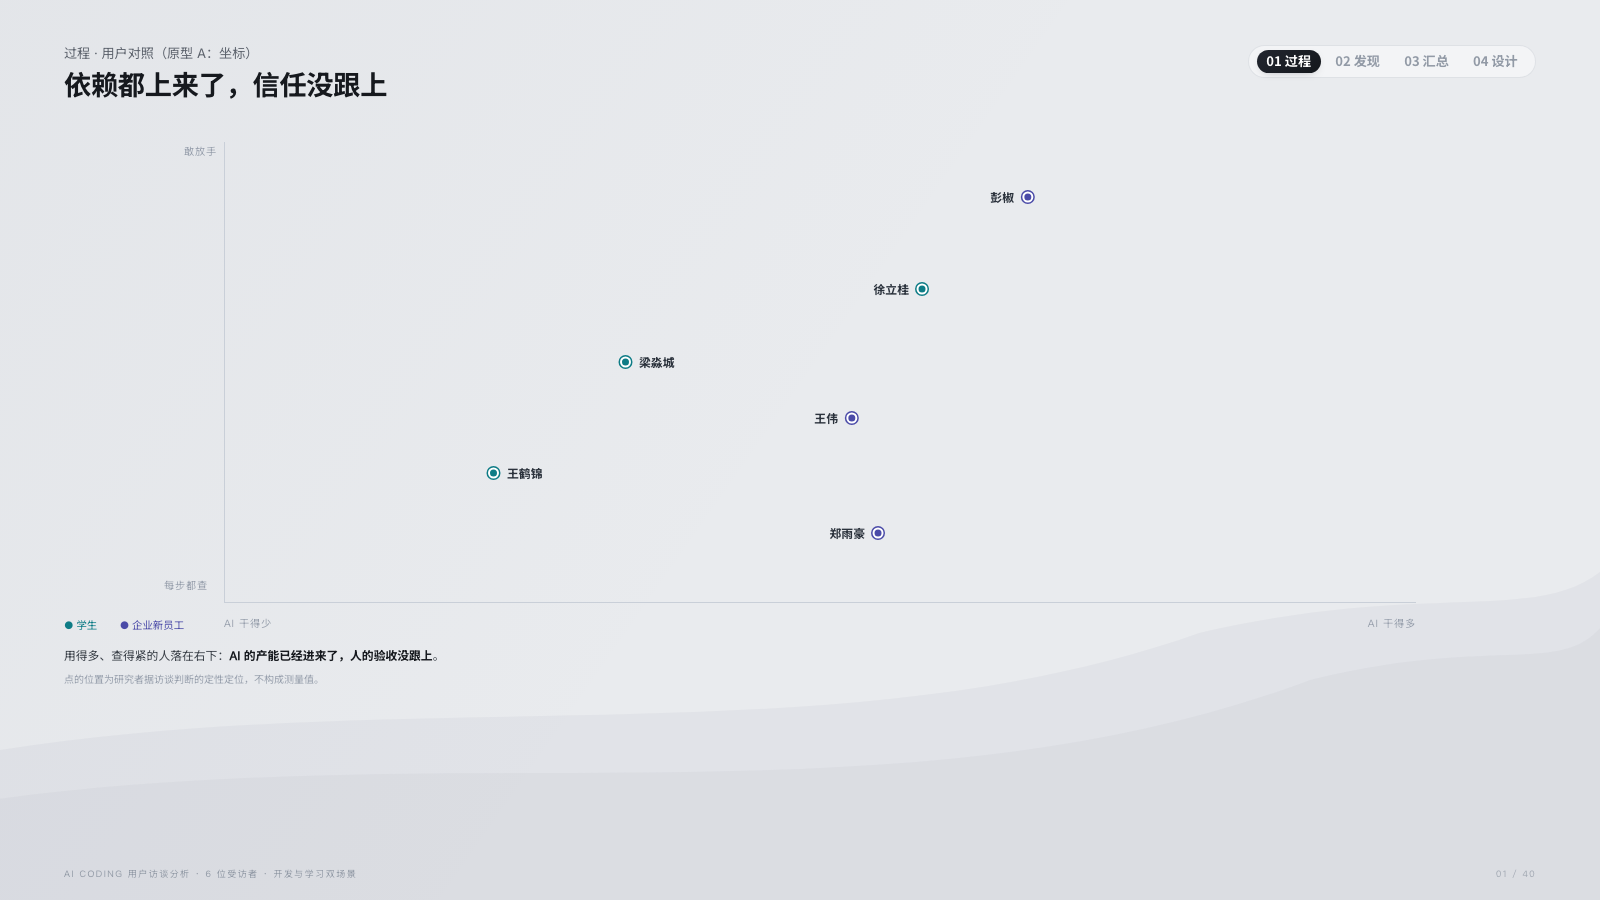
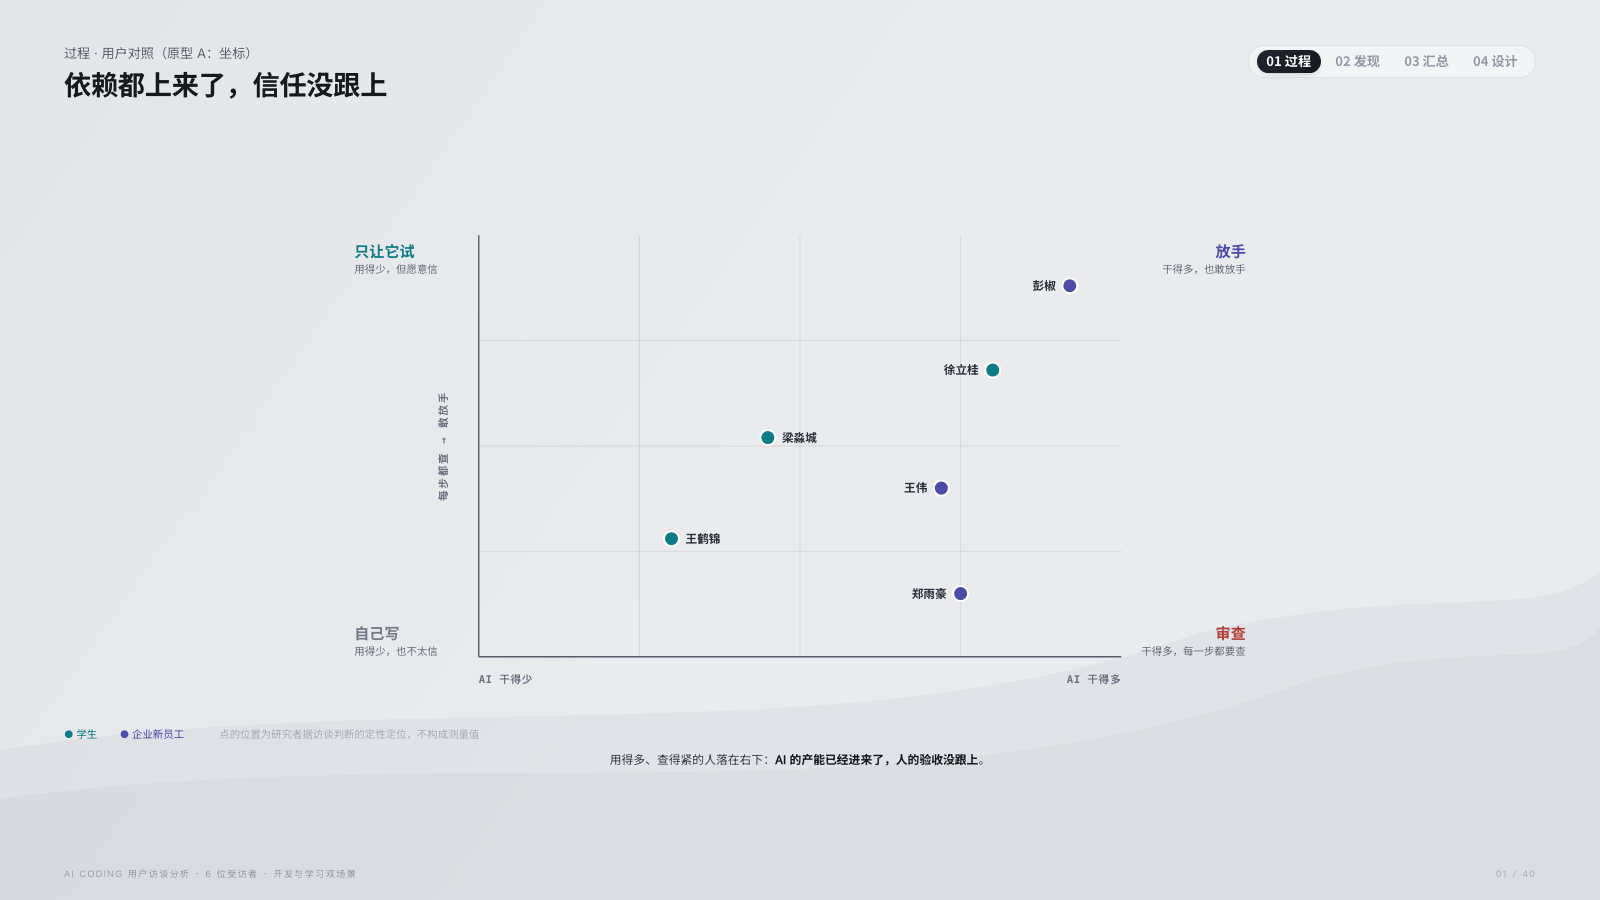
polish: 坐标页改为 Kano 式象限（参照问卷分析 #3），两版均垂直居中
- 网格线、四角象限标签（彩色标题 + 灰注）、旋转纵轴说明、点名标签
- 去掉固定高度导致的顶部对齐，内容在正文区垂直居中

diff --git a/outputs/019fc599-4de5-77a1-9612-6cbb4caa6090/AI-Coding访谈分析/_proto/介入方式对比.html b/outputs/019fc599-4de5-77a1-9612-6cbb4caa6090/AI-Coding访谈分析/_proto/介入方式对比.html
@@ -1086,27 +1086,25 @@ body.overview #panel,body.overview #toggle{display:none!important}
 .gtag{display:inline-block;font-family:'JetBrains Mono';font-size:9.6px;letter-spacing:.12em;color:#3B3B85;background:rgba(75,75,168,.1);border-radius:4px;padding:.18em .5em;margin-right:.7em;vertical-align:middle;transform:translateY(-2px)}
 
 
-.sc-wrap{position:relative;flex:none;height:472px;margin-top:1vh}
-.sc-axis-x{position:absolute;left:160px;right:120px;top:460px;height:1px;background:#C9CFD8}
-.sc-axis-y{position:absolute;left:160px;top:0;height:460px;width:1px;background:#C9CFD8}
-.sc-cap{position:absolute;font-size:10.2px;color:#98A0AD;font-family:'JetBrains Mono';letter-spacing:.06em}
-.sc-cap.xl{left:160px;top:474px}
-.sc-cap.xr{right:120px;top:474px}
-.sc-cap.yt{left:120px;top:2px}
-.sc-cap.yb{left:100px;top:436px}
-.sc-pt{position:absolute;transform:translateY(-50%);display:flex;align-items:center;gap:.45em;white-space:nowrap}
-.sc-pt.lft{flex-direction:row-reverse;transform:translate(-100%,-50%)}
-.sc-pt i{width:11px;height:11px;border-radius:50%;display:block;border:2.5px solid #fff;box-shadow:0 0 0 1.5px currentColor}
-.sc-pt b{font-size:11.8px;font-weight:600;color:#2C333D}
-.sc-pt.s i{color:#0E7C86;background:#0E7C86}
-.sc-pt.e i{color:#4B4BA8;background:#4B4BA8}
-.sc-lg{display:flex;gap:1.4vw;font-size:10.4px;color:#8C95A3;margin-top:.6vh}
-.sc-lg .s{color:#0E7C86}
-.sc-lg .e{color:#4B4BA8}
-.proto{flex:1;min-height:0;display:flex;flex-direction:column}
-.proto-take{font-size:11.8px;color:#3A4048;line-height:1.55;margin-top:1.6vh}
+.proto{flex:1;min-height:0;display:flex;flex-direction:column;justify-content:center;align-items:stretch;gap:1.2vh}
+.k-svg{width:min(100%,1040px);height:auto;max-height:58vh;display:block;margin:0 auto}
+.k-axis{stroke:#555D68;stroke-width:1.4}
+.k-ql{font:700 15px 'HarmonyOS Sans SC','Noto Sans SC',sans-serif}
+.k-ql.k-Q1{fill:#4B4BA8}.k-ql.k-Q2{fill:#0E7C86}
+.k-ql.k-Q3{fill:#727B88}.k-ql.k-Q4{fill:#B3403A}
+.k-qn{font:500 10.4px 'HarmonyOS Sans SC','Noto Sans SC',sans-serif;fill:#68707B}
+.k-al{font:700 10.6px 'JetBrains Mono',monospace;fill:#6B7280;letter-spacing:.04em}
+.k-rot{letter-spacing:.14em}
+.k-pt circle{stroke:#fff;stroke-width:2}
+.k-pt.s circle{fill:#0E7C86}
+.k-pt.e circle{fill:#4B4BA8}
+.k-pt text{font:600 11.6px 'HarmonyOS Sans SC','Noto Sans SC',sans-serif;fill:#2C333D}
+.sc-lg{display:flex;gap:1.4vw;font-size:10.4px;color:#8C95A3;align-items:center}
+.sc-lg .s{color:#0E7C86}.sc-lg .e{color:#4B4BA8}
+.sc-lg .muted{color:#A6ADB8;margin-left:.8vw}
+.proto-take{font-size:11.8px;color:#3A4048;line-height:1.55;text-align:center}
 .proto-take b{color:#16191E}
-.proto-note{font-size:10px;color:#98A0AD;margin-top:.8vh;line-height:1.5}
+.proto-note{font-size:10px;color:#98A0AD;margin-top:.6vh;line-height:1.5}
 .tl{flex:1;min-height:0;display:flex;flex-direction:column;justify-content:center}
 .tl-head,.tl-r{display:grid;grid-template-columns:96px 1fr 260px;gap:1.4vw;align-items:center}
 .tl-head div{font-family:'JetBrains Mono';font-size:9.6px;letter-spacing:.08em;color:#98A0AD;text-align:center}
@@ -1123,22 +1121,24 @@ body.overview #panel,body.overview #toggle{display:none!important}
 .tl-c i.dot1{width:9px;height:9px;background:#fff;border:2px solid #9AA3B2}
 .tl-c i.dot0{width:5px;height:5px;background:#D5DAE2}
 .tl-g{font-size:10.4px;color:#5E646E;line-height:1.4}
-.tl-legend{display:flex;gap:1.8vw;font-size:10.2px;color:#8C95A3;margin-top:1.4vh;align-items:center}
+.tl-legend{display:flex;gap:1.8vw;font-size:10.2px;color:#8C95A3;margin-top:1.4vh;align-items:center;justify-content:center}
 .tl-legend i{display:inline-block;vertical-align:middle;margin-right:.4em}
 .tl-legend i.dot2{width:11px;height:11px;border-radius:50%;background:#4B4BA8}
 .tl-legend i.dot1{width:8px;height:8px;border-radius:50%;background:#fff;border:2px solid #9AA3B2}
 </style></head><body><div id="deck"><section class="slide s-gray"><div class="head"><div class="head-l"><div class="brand"><span class="ttl">依赖都上来了，信任没跟上</span></div><div class="subttl">过程 · 用户对照（原型 A：坐标）</div></div><div class="section-tabs" aria-label="当前章节"><span class="active">01 过程</span><span class="">02 发现</span><span class="">03 汇总</span><span class="">04 设计</span></div></div><div class="body-area">
 <div class="proto">
-  <div class="sc-wrap">
-    <div class="sc-axis-x"></div>
-    <div class="sc-axis-y"></div>
-    <div class="sc-cap xl">AI 干得少</div><div class="sc-cap xr">AI 干得多</div>
-    <div class="sc-cap yt">敢放手</div><div class="sc-cap yb">每步都查</div>
-    <div class="sc-pt s" style="left:424px;top:331px"><i></i><b>王鹤锦</b></div><div class="sc-pt s" style="left:556px;top:220px"><i></i><b>梁淼城</b></div><div class="sc-pt s lft" style="left:864px;top:147px"><i></i><b>徐立桂</b></div><div class="sc-pt e lft" style="left:793px;top:276px"><i></i><b>王伟</b></div><div class="sc-pt e lft" style="left:820px;top:391px"><i></i><b>郑雨豪</b></div><div class="sc-pt e lft" style="left:969px;top:55px"><i></i><b>彭椒</b></div>
-  </div>
-  <div class="sc-lg"><span class="s">● 学生</span><span class="e">● 企业新员工</span></div>
+  <svg class="k-svg" viewBox="0 0 940 520" preserveAspectRatio="xMidYMid meet">
+    <g class="k-gridg"><line x1="310.0" y1="40" x2="310.0" y2="460" stroke="rgba(76,85,98,.13)"/><line x1="150" y1="145.0" x2="790" y2="145.0" stroke="rgba(76,85,98,.13)"/><line x1="470.0" y1="40" x2="470.0" y2="460" stroke="rgba(76,85,98,.13)"/><line x1="150" y1="250.0" x2="790" y2="250.0" stroke="rgba(76,85,98,.13)"/><line x1="630.0" y1="40" x2="630.0" y2="460" stroke="rgba(76,85,98,.13)"/><line x1="150" y1="355.0" x2="790" y2="355.0" stroke="rgba(76,85,98,.13)"/></g>
+    <line class="k-axis" x1="150" y1="460" x2="790" y2="460"/>
+    <line class="k-axis" x1="150" y1="40" x2="150" y2="460"/>
+    <text class="k-ql k-Q2" x="26" y="62" text-anchor="start">只让它试</text><text class="k-qn" x="26" y="78" text-anchor="start">用得少，但愿意信</text><text class="k-ql k-Q1" x="914" y="62" text-anchor="end">放手</text><text class="k-qn" x="914" y="78" text-anchor="end">干得多，也敢放手</text><text class="k-ql k-Q3" x="26" y="442" text-anchor="start">自己写</text><text class="k-qn" x="26" y="458" text-anchor="start">用得少，也不太信</text><text class="k-ql k-Q4" x="914" y="442" text-anchor="end">审查</text><text class="k-qn" x="914" y="458" text-anchor="end">干得多，每一步都要查</text>
+    <g class="k-pt s"><circle cx="342.0" cy="342.4" r="7.5"/><text x="356.0" y="346.4" text-anchor="start">王鹤锦</text></g><g class="k-pt s"><circle cx="438.0" cy="241.6" r="7.5"/><text x="452.0" y="245.6" text-anchor="start">梁淼城</text></g><g class="k-pt s"><circle cx="662.0" cy="174.4" r="7.5"/><text x="648.0" y="178.4" text-anchor="end">徐立桂</text></g><g class="k-pt e"><circle cx="610.8" cy="292.0" r="7.5"/><text x="596.8" y="296.0" text-anchor="end">王伟</text></g><g class="k-pt e"><circle cx="630.0" cy="397.0" r="7.5"/><text x="616.0" y="401.0" text-anchor="end">郑雨豪</text></g><g class="k-pt e"><circle cx="738.8" cy="90.4" r="7.5"/><text x="724.8" y="94.4" text-anchor="end">彭椒</text></g>
+    <text class="k-al" x="150" y="486" text-anchor="start">AI 干得少</text>
+    <text class="k-al" x="790" y="486" text-anchor="end">AI 干得多</text>
+    <text class="k-al k-rot" x="118" y="250" text-anchor="middle" transform="rotate(-90 118 250)">每步都查 → 敢放手</text>
+  </svg>
+  <div class="sc-lg"><span class="s">● 学生</span><span class="e">● 企业新员工</span><span class="muted">点的位置为研究者据访谈判断的定性定位，不构成测量值</span></div>
   <div class="proto-take">用得多、查得紧的人落在右下：<b>AI 的产能已经进来了，人的验收没跟上</b>。</div>
-  <div class="proto-note">点的位置为研究者据访谈判断的定性定位，不构成测量值。</div>
 </div></div><div class="pfoot"><span>AI Coding 用户访谈分析 · 6 位受访者 · 开发与学习双场景</span></div></section><section class="slide s-gray"><div class="head"><div class="head-l"><div class="brand"><span class="ttl">同一条任务，六个人在不同的地方回来</span></div><div class="subttl">过程 · 用户对照（原型 B：介入时间线）</div></div><div class="section-tabs" aria-label="当前章节"><span class="active">01 过程</span><span class="">02 发现</span><span class="">03 汇总</span><span class="">04 设计</span></div></div><div class="body-area">
 <div class="proto">
   <div class="tl">

diff --git a/outputs/019fc599-4de5-77a1-9612-6cbb4caa6090/AI-Coding访谈分析/_src/build_proto.py b/outputs/019fc599-4de5-77a1-9612-6cbb4caa6090/AI-Coding访谈分析/_src/build_proto.py
@@ -9,27 +9,25 @@ deck = (base / 'AI-Coding用户访谈分析.html').read_text(encoding='utf-8')
 css = re.search(r'<style>(.*?)</style>', deck, re.S).group(1)
 
 EXTRA = '''
-.sc-wrap{position:relative;flex:none;height:472px;margin-top:1vh}
-.sc-axis-x{position:absolute;left:160px;right:120px;top:460px;height:1px;background:#C9CFD8}
-.sc-axis-y{position:absolute;left:160px;top:0;height:460px;width:1px;background:#C9CFD8}
-.sc-cap{position:absolute;font-size:10.2px;color:#98A0AD;font-family:'JetBrains Mono';letter-spacing:.06em}
-.sc-cap.xl{left:160px;top:474px}
-.sc-cap.xr{right:120px;top:474px}
-.sc-cap.yt{left:120px;top:2px}
-.sc-cap.yb{left:100px;top:436px}
-.sc-pt{position:absolute;transform:translateY(-50%);display:flex;align-items:center;gap:.45em;white-space:nowrap}
-.sc-pt.lft{flex-direction:row-reverse;transform:translate(-100%,-50%)}
-.sc-pt i{width:11px;height:11px;border-radius:50%;display:block;border:2.5px solid #fff;box-shadow:0 0 0 1.5px currentColor}
-.sc-pt b{font-size:11.8px;font-weight:600;color:#2C333D}
-.sc-pt.s i{color:#0E7C86;background:#0E7C86}
-.sc-pt.e i{color:#4B4BA8;background:#4B4BA8}
-.sc-lg{display:flex;gap:1.4vw;font-size:10.4px;color:#8C95A3;margin-top:.6vh}
-.sc-lg .s{color:#0E7C86}
-.sc-lg .e{color:#4B4BA8}
-.proto{flex:1;min-height:0;display:flex;flex-direction:column}
-.proto-take{font-size:11.8px;color:#3A4048;line-height:1.55;margin-top:1.6vh}
+.proto{flex:1;min-height:0;display:flex;flex-direction:column;justify-content:center;align-items:stretch;gap:1.2vh}
+.k-svg{width:min(100%,1040px);height:auto;max-height:58vh;display:block;margin:0 auto}
+.k-axis{stroke:#555D68;stroke-width:1.4}
+.k-ql{font:700 15px 'HarmonyOS Sans SC','Noto Sans SC',sans-serif}
+.k-ql.k-Q1{fill:#4B4BA8}.k-ql.k-Q2{fill:#0E7C86}
+.k-ql.k-Q3{fill:#727B88}.k-ql.k-Q4{fill:#B3403A}
+.k-qn{font:500 10.4px 'HarmonyOS Sans SC','Noto Sans SC',sans-serif;fill:#68707B}
+.k-al{font:700 10.6px 'JetBrains Mono',monospace;fill:#6B7280;letter-spacing:.04em}
+.k-rot{letter-spacing:.14em}
+.k-pt circle{stroke:#fff;stroke-width:2}
+.k-pt.s circle{fill:#0E7C86}
+.k-pt.e circle{fill:#4B4BA8}
+.k-pt text{font:600 11.6px 'HarmonyOS Sans SC','Noto Sans SC',sans-serif;fill:#2C333D}
+.sc-lg{display:flex;gap:1.4vw;font-size:10.4px;color:#8C95A3;align-items:center}
+.sc-lg .s{color:#0E7C86}.sc-lg .e{color:#4B4BA8}
+.sc-lg .muted{color:#A6ADB8;margin-left:.8vw}
+.proto-take{font-size:11.8px;color:#3A4048;line-height:1.55;text-align:center}
 .proto-take b{color:#16191E}
-.proto-note{font-size:10px;color:#98A0AD;margin-top:.8vh;line-height:1.5}
+.proto-note{font-size:10px;color:#98A0AD;margin-top:.6vh;line-height:1.5}
 .tl{flex:1;min-height:0;display:flex;flex-direction:column;justify-content:center}
 .tl-head,.tl-r{display:grid;grid-template-columns:96px 1fr 260px;gap:1.4vw;align-items:center}
 .tl-head div{font-family:'JetBrains Mono';font-size:9.6px;letter-spacing:.08em;color:#98A0AD;text-align:center}
@@ -46,7 +44,7 @@ EXTRA = '''
 .tl-c i.dot1{width:9px;height:9px;background:#fff;border:2px solid #9AA3B2}
 .tl-c i.dot0{width:5px;height:5px;background:#D5DAE2}
 .tl-g{font-size:10.4px;color:#5E646E;line-height:1.4}
-.tl-legend{display:flex;gap:1.8vw;font-size:10.2px;color:#8C95A3;margin-top:1.4vh;align-items:center}
+.tl-legend{display:flex;gap:1.8vw;font-size:10.2px;color:#8C95A3;margin-top:1.4vh;align-items:center;justify-content:center}
 .tl-legend i{display:inline-block;vertical-align:middle;margin-right:.4em}
 .tl-legend i.dot2{width:11px;height:11px;border-radius:50%;background:#4B4BA8}
 .tl-legend i.dot1{width:8px;height:8px;border-radius:50%;background:#fff;border:2px solid #9AA3B2}

diff --git a/outputs/019fc599-4de5-77a1-9612-6cbb4caa6090/AI-Coding访谈分析/_src/d_proto.py b/outputs/019fc599-4de5-77a1-9612-6cbb4caa6090/AI-Coding访谈分析/_src/d_proto.py
@@ -11,31 +11,62 @@ PT = [
     ('彭椒', 'e', 0.92, 0.88),
 ]
 
-W, H = 880, 460
-X0, Y0 = 160, 0
-BASE = Y0 + H  # 460
+# Kano 式象限图（参考 cann-dashboard 问卷分析 #3）
+X0, Y0, PW, PH = 150, 40, 640, 420
+GRID = 'rgba(76,85,98,.13)'
+
+
+def _pt(x, y):
+    return X0 + x * PW, Y0 + (1 - y) * PH
+
+
+_grid = ''
+for i in range(1, 4):
+    gx = X0 + PW * i / 4
+    gy = Y0 + PH * i / 4
+    _grid += '<line x1="%.1f" y1="%d" x2="%.1f" y2="%d" stroke="%s"/>' % (gx, Y0, gx, Y0 + PH, GRID)
+    _grid += '<line x1="%d" y1="%.1f" x2="%d" y2="%.1f" stroke="%s"/>' % (X0, gy, X0 + PW, gy, GRID)
+
+_QUAD = [
+    ('k-Q2', 26, 62, 'start', '只让它试', '用得少，但愿意信'),
+    ('k-Q1', 914, 62, 'end', '放手', '干得多，也敢放手'),
+    ('k-Q3', 26, 442, 'start', '自己写', '用得少，也不太信'),
+    ('k-Q4', 914, 442, 'end', '审查', '干得多，每一步都要查'),
+]
+_qlab = ''
+for cls, x, y, anchor, t, note in _QUAD:
+    _qlab += ('<text class="k-ql %s" x="%d" y="%d" text-anchor="%s">%s</text>'
+              '<text class="k-qn" x="%d" y="%d" text-anchor="%s">%s</text>'
+              % (cls, x, y, anchor, t, x, y + 16, anchor, note))
 
 _dots = ''
 for n, g, x, y in PT:
-    px = X0 + x * W
-    py = BASE - y * H
-    side = ' lft' if px > X0 + W * 0.55 else ''
-    _dots += ('<div class="sc-pt %s%s" style="left:%dpx;top:%dpx"><i></i><b>%s</b></div>'
-              % (g, side, int(px), int(py), n))
+    cx, cy = _pt(x, y)
+    right = cx < X0 + PW * 0.62
+    lx = cx + 14 if right else cx - 14
+    anchor = 'start' if right else 'end'
+    _dots += ('<g class="k-pt %s"><circle cx="%.1f" cy="%.1f" r="7.5"/>'
+              '<text x="%.1f" y="%.1f" text-anchor="%s">%s</text></g>'
+              % (g, cx, cy, lx, cy + 4, anchor, n))
 
 SCATTER = '''
 <div class="proto">
-  <div class="sc-wrap">
-    <div class="sc-axis-x"></div>
-    <div class="sc-axis-y"></div>
-    <div class="sc-cap xl">AI 干得少</div><div class="sc-cap xr">AI 干得多</div>
-    <div class="sc-cap yt">敢放手</div><div class="sc-cap yb">每步都查</div>
+  <svg class="k-svg" viewBox="0 0 940 520" preserveAspectRatio="xMidYMid meet">
+    <g class="k-gridg">%s</g>
+    <line class="k-axis" x1="%d" y1="%d" x2="%d" y2="%d"/>
+    <line class="k-axis" x1="%d" y1="%d" x2="%d" y2="%d"/>
     %s
-  </div>
-  <div class="sc-lg"><span class="s">● 学生</span><span class="e">● 企业新员工</span></div>
+    %s
+    <text class="k-al" x="%d" y="%d" text-anchor="start">AI 干得少</text>
+    <text class="k-al" x="%d" y="%d" text-anchor="end">AI 干得多</text>
+    <text class="k-al k-rot" x="%d" y="%d" text-anchor="middle" transform="rotate(-90 %d %d)">每步都查 → 敢放手</text>
+  </svg>
+  <div class="sc-lg"><span class="s">● 学生</span><span class="e">● 企业新员工</span><span class="muted">点的位置为研究者据访谈判断的定性定位，不构成测量值</span></div>
   <div class="proto-take">用得多、查得紧的人落在右下：<b>AI 的产能已经进来了，人的验收没跟上</b>。</div>
-  <div class="proto-note">点的位置为研究者据访谈判断的定性定位，不构成测量值。</div>
-</div>''' % _dots
+</div>''' % (_grid, X0, Y0 + PH, X0 + PW, Y0 + PH, X0, Y0, X0, Y0 + PH,
+              _qlab, _dots,
+              X0, Y0 + PH + 26, X0 + PW, Y0 + PH + 26,
+              118, Y0 + PH / 2, 118, Y0 + PH / 2)
 
 STAGES = ['开工 / 定题', '备料 / 上下文', 'AI 执行', '验收 / 纠偏', '沉淀 / 交付']
 
